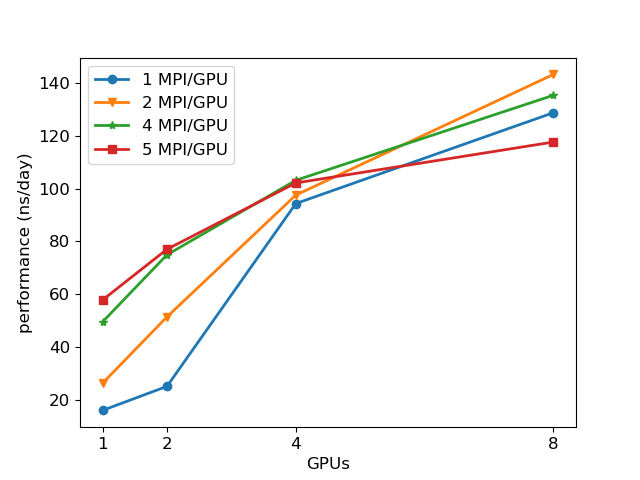
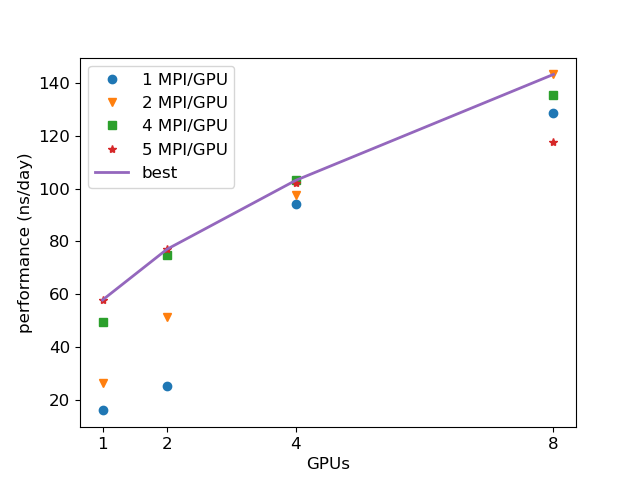
Plots for the report

diff --git a/AA-LLC/GPU/plot.py b/AA-LLC/GPU/plot.py
@@ -1,31 +1,34 @@
 import  matplotlib.pyplot as plt
 import numpy as np
 
-
 data =  np.loadtxt('benchmarks.dat')
 
+plt.title('AA simulation on Bridges2 GPU nodes')
 plt.rc('font' , size =12)
-plt.ylabel('performance (ns/day)')
+plt.ylabel('Performance (ns/day)')
 plt.xlabel('GPUs')
 #plt.xscale("log")
 #plt.yscale("log")
 
 x=data[:,0]
-y1=data[:,1]
-y2=data[:,2]
-y4=data[:,3]
-y5=data[:,4]
+ymax=np.amax(data[:,1:],axis=1)
+
+coef = np.polyfit(x[:2],ymax[:2],1)
+fn =  np.poly1d(coef)
+
+
+
 plt.xticks([1,2,4,8])
-plt.plot(x, y1, marker='o', linewidth=2, label='1 MPI/GPU')
-plt.plot(x, y2, marker='v', linewidth=2, label='2 MPI/GPU')
-plt.plot(x, y4, marker='*', linewidth=2, label='4 MPI/GPU')
-plt.plot(x, y5, marker='s', linewidth=2, label='5 MPI/GPU')
+plt.plot(x, ymax,marker='o',  linewidth=2, label='best')
 
+x0=np.linspace(1,4,4)
+plt.plot(x0,fn(x0), '--k')
 
-plt.savefig('test_GPU.png')
-plt.legend()
-
+plt.savefig('AA-LLC-gpus.png')
 plt.show()
+plt.close()
+
+
 exit()
 
 

diff --git a/AA-LLC/GPU/plot_all.py b/AA-LLC/GPU/plot_all.py
@@ -1,0 +1,34 @@
+import  matplotlib.pyplot as plt
+import numpy as np
+
+
+data =  np.loadtxt('benchmarks.dat')
+
+plt.rc('font' , size =12)
+plt.ylabel('performance (ns/day)')
+plt.xlabel('GPUs')
+#plt.xscale("log")
+#plt.yscale("log")
+
+x=data[:,0]
+y1=data[:,1]
+y2=data[:,2]
+y4=data[:,3]
+y5=data[:,4]
+ymax=np.amax(data[:,1:],axis=1)
+plt.xticks([1,2,4,8])
+plt.plot(x, y1, marker='o', linewidth=0, label='1 MPI/GPU')
+plt.plot(x, y2, marker='v', linewidth=0, label='2 MPI/GPU')
+plt.plot(x, y4, marker='s', linewidth=0, label='4 MPI/GPU')
+plt.plot(x, y5, marker='*', linewidth=0, label='5 MPI/GPU')
+plt.plot(x, ymax, linewidth=2, label='best')
+
+plt.legend()
+plt.savefig('test_GPU.png')
+plt.show()
+plt.close()
+
+exit()
+
+
+

diff --git a/AA-LLC/CPU/plot.py b/AA-LLC/CPU/plot.py
@@ -1,0 +1,30 @@
+import  matplotlib.pyplot as plt
+import numpy as np
+
+
+data =  np.loadtxt('benchmarks.dat')
+plt.title('AA simulation on Bridges2 RM nodes')
+plt.rc('font' , size =12)
+plt.ylabel('Performance (ns/day)')
+plt.xlabel('Cores')
+#plt.xscale("log")
+#plt.yscale("log")
+
+x=data[:,0]
+y=data[:,1]
+
+coef = np.polyfit(x[:6],y[:6],1)
+fn =  np.poly1d(coef)
+
+plt.plot(x,y, marker='o', linewidth=2)
+
+x0=np.linspace(0,128,129)
+plt.plot(x0,fn(x0), '--k')
+
+plt.savefig('AA-LLC-cores.png')
+
+plt.show()
+exit()
+
+
+
